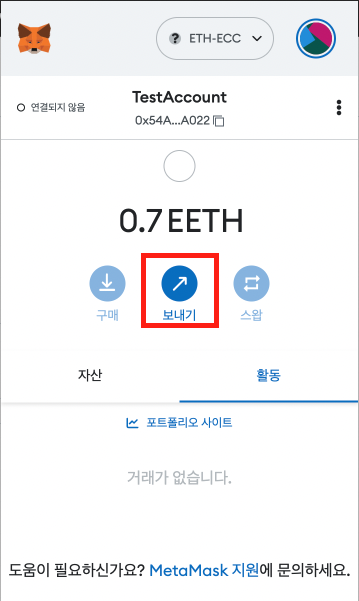
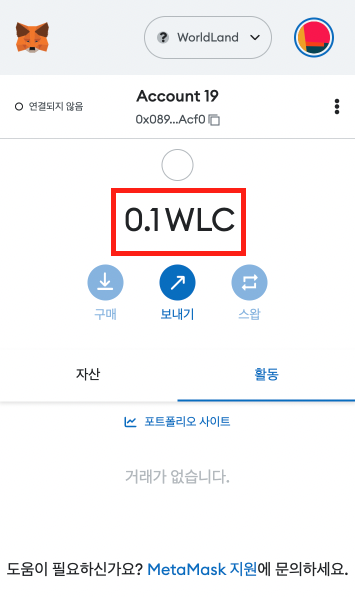
GITBOOK-126: change request with no subject merged in GitBook

diff --git a/user/setup/README.md b/user/setup/README.md
@@ -1,0 +1,79 @@
+# Setup
+
+> _Metamask is a universal cryptocurrency wallet compatible with Ethereum-based chains. Metamask is an extension that works as a plugin for Chrome-based web browsers._
+
+#### _Please contact us if you have any questions._ [_https://open.kakao.com/o/gXdk2J5e_](https://open.kakao.com/o/gXdk2J5e)
+
+_We use the Chrome browser as an example. Please refer_ [_here_](https://www.google.com/chrome) _to download the Chrome browser._
+
+* Install MetaMask
+* Run MetaMask
+* Connect to WorldLand Network
+
+## 1. Install MetaMask
+
+Go to the Chrome Web Store, search for the [MetaMask](https://chrome.google.com/webstore/detail/metamask/nkbihfbeogaeaoehlefnkodbefgpgknn) extension, and add it.
+
+<figure><img src="../../.gitbook/assets/image (2).png" alt=""><figcaption></figcaption></figure>
+
+After installation, click the puzzle-shaped expansion icon on the top right corner to find MetaMask.
+
+<figure><img src="../../.gitbook/assets/image (1) (1).png" alt=""><figcaption></figcaption></figure>
+
+## 2.  Run MetaMask
+
+Click the Create Wallet button and enter your password.
+
+A 12-word phrase appears. Only this phrase can recover your wallet, so be careful not to expose it.
+
+Write down your Secret Recovery Phrase
+
+Write down this 12-word Secret Recovery Phrase and save it in a place that you trust and only you can access.
+
+Tips:
+
+1. Save in a password manager
+2. Store in a safe deposit box
+3. Write down and store in multiple secret Places
+
+<figure><img src="../../.gitbook/assets/image (5) (1).png" alt=""><figcaption></figcaption></figure>
+
+When the wallet creation is complete, you can see the wallet screen as shown below.
+
+<figure><img src="../../.gitbook/assets/image (3) (1).png" alt=""><figcaption></figcaption></figure>
+
+## 3.  Connect to Worldland network
+
+Click the Network selection box.
+
+and Click the Add Network button.
+
+<figure><img src="../../.gitbook/assets/image (1) (2).png" alt=""><figcaption></figcaption></figure>
+
+<figure><img src="../../.gitbook/assets/image (6) (1).png" alt=""><figcaption></figcaption></figure>
+
+**Network name: Worldland**
+
+**New RPC URL:** [**https://seoul.worldland.foundation/**](https://seoul.worldland.foundation/)
+
+**Chain ID: 103**
+
+**Currency Symbol: WLC**
+
+**Block-explorer URL :**
+
+
+
+
+
+Worldland Blockchain supports **Seoul Main Network** and **Gwangju Test Network**. Both networks operate on the same protocol environment. Before deploying to the Seoul network, you can test it in the same environment on the Gwangju network.
+
+
+
+<table><thead><tr><th width="192">Network Name</th><th width="264">Seoul Mainnet</th><th>Gwangju Testnet</th></tr></thead><tbody><tr><td>RPC URL</td><td><a href="https://seoul.worldland.foundation/">https://seoul.worldland.foundation/</a></td><td><a href="https://gwangju.worldland.foundation/">https://gwangju.worldland.foundation/</a> </td></tr><tr><td>Chain ID</td><td>103</td><td>10359</td></tr><tr><td>Currency Symbol</td><td>WLC</td><td>WLC</td></tr><tr><td>Block Explorer URL</td><td></td><td></td></tr></tbody></table>
+
+
+
+{% hint style="info" %}
+
+{% endhint %}

diff --git a/user/setup/wallet.md b/user/setup/wallet.md
@@ -1,0 +1,42 @@
+# Wallet
+
+우리는 메타마스크 지갑을 사용한   지갑가이드를 설명합니다. 만약 메타마스크 지갑이 이미 설치되어 있거나 다른 EVM-호환의 지갑을 사용한다면, 다음 [페이지](../../developer/how-to-start-a-worldland-node./connect-to-metamask.md)로 넘어가주세요.
+
+> _Metamask is a universal cryptocurrency wallet compatible with Ethereum-based chains. Metamask is an extension that works as a plugin for Chrome-based web browsers._
+
+_We use the Chrome browser as an example. Please refer_ [_here_](https://www.google.com/chrome) _to download the Chrome browser._
+
+* Install MetaMask
+* Run MetaMask
+
+## 1. Install MetaMask
+
+Go to the Chrome Web Store, search for the [MetaMask](https://chrome.google.com/webstore/detail/metamask/nkbihfbeogaeaoehlefnkodbefgpgknn) extension, and add it.
+
+<figure><img src="../../.gitbook/assets/image (2).png" alt=""><figcaption></figcaption></figure>
+
+After installation, click the puzzle-shaped expansion icon on the top right corner to find MetaMask.
+
+<figure><img src="../../.gitbook/assets/image (1) (1).png" alt=""><figcaption></figcaption></figure>
+
+## 2.  Run MetaMask
+
+Click the Create Wallet button and enter your password.
+
+A 12-word phrase appears. Only this phrase can recover your wallet, so be careful not to expose it.
+
+Write down your Secret Recovery Phrase
+
+Write down this 12-word Secret Recovery Phrase and save it in a place that you trust and only you can access.
+
+Tips:
+
+1. Save in a password manager
+2. Store in a safe deposit box
+3. Write down and store in multiple secret Places
+
+<figure><img src="../../.gitbook/assets/image (5) (1).png" alt=""><figcaption></figcaption></figure>
+
+When the wallet creation is complete, you can see the wallet screen as shown below.
+
+<figure><img src="../../.gitbook/assets/image (3) (1).png" alt=""><figcaption></figcaption></figure>

diff --git a/user/setup/network.md b/user/setup/network.md
@@ -1,0 +1,32 @@
+# Network
+
+Worldland Blockchain supports **Seoul Main Network** and **Gwangju Test Network**. Both networks operate on the same protocol environment. Before deploying to the Seoul network, you can test it in the same environment on the Gwangju network.
+
+<table><thead><tr><th width="192">Network Name</th><th width="264">Seoul Mainnet</th><th>Gwangju Testnet</th></tr></thead><tbody><tr><td>RPC URL</td><td><a href="https://seoul.worldland.foundation/">https://seoul.worldland.foundation/</a></td><td><a href="https://gwangju.worldland.foundation/">https://gwangju.worldland.foundation/</a> </td></tr><tr><td>Chain ID</td><td>103</td><td>10359</td></tr><tr><td>Currency Symbol</td><td>WLC</td><td>WLC</td></tr><tr><td>Block Explorer URL</td><td></td><td></td></tr></tbody></table>
+
+## Metamask
+
+You need to import the Network configurations to your MetaMask wallet. To do this, click all **Add to Wallet** buttons on the [Worldland homepage](https://worldland.foundation/). This will import the chain ID and RPC URLs for the Worldland network. The Goerli Testnet is configured on Metamask by default. To show it, click "Show/hide test networks" in the MetaMask network selection dropdown menu.
+
+If there is a problem with the link, follow the order below to manually add the configuration details in the table above
+
+
+
+## **Manual network addition**
+
+1\. Click the Network selection box.
+
+<figure><img src="../../.gitbook/assets/image (1) (2).png" alt=""><figcaption></figcaption></figure>
+
+2. Click the Add Network button.
+
+<figure><img src="../../.gitbook/assets/image (6) (1).png" alt=""><figcaption></figcaption></figure>
+
+Fill in the blanks using the network table above.
+
+<figure><img src="../../.gitbook/assets/image.png" alt=""><figcaption></figcaption></figure>
+
+
+
+
+

diff --git a/SUMMARY.md b/SUMMARY.md
@@ -15,13 +15,15 @@
 
 ## User
 
-* [Network](user/network.md)
-* [Connect Wallet](user/how-to-connect-wallet-to-worldland-network.md)
+* [Setup](user/setup/README.md)
+  * [Wallet](user/setup/wallet.md)
+  * [Network](user/setup/network.md)
 * [Get WLCs](user/how-to-obtain-your-wlcs-the-worldland-coins.md)
 * [Node Operater](user/node-operater/README.md)
   * [Install Node](developer/how-to-start-a-worldland-node./install-and-run-geth.md)
   * [Run Node](user/node-operater/run-node.md)
   * [Miner](user/mining.md)
+* [Connect Wallet](user/how-to-connect-wallet-to-worldland-network.md)
 
 ## Developer
 

diff --git a/developer/how-to-send-and-receive-coins..md b/developer/how-to-send-and-receive-coins..md
@@ -1,4 +1,4 @@
-# How to send and receive coins.
+# Smart Contract
 
 Sending coins is really simple.
 
@@ -31,7 +31,7 @@ Just follow the picture.
 
 4. Just click the Next button and you're done
 
-<figure><img src="../.gitbook/assets/image.png" alt=""><figcaption></figcaption></figure>
+<figure><img src="../.gitbook/assets/image (3).png" alt=""><figcaption></figcaption></figure>
 
 
 
